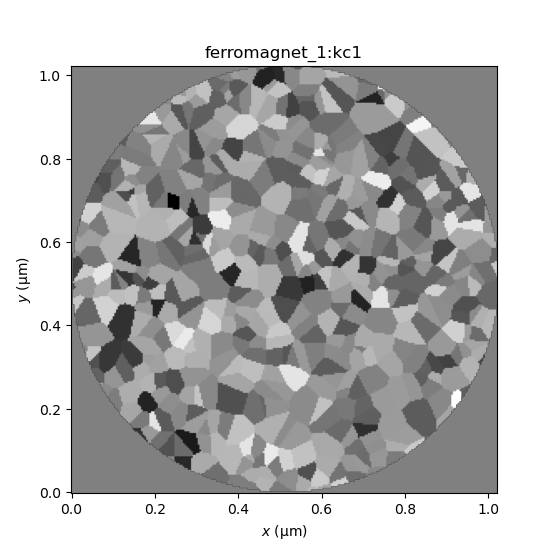
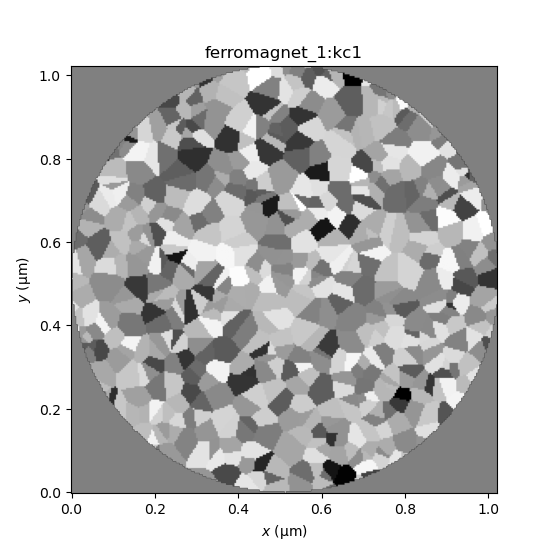
Fix show_regions after 3D upgrade

diff --git a/mumaxplus/util/show.py b/mumaxplus/util/show.py
@@ -1445,7 +1445,8 @@ def show_regions(magnet,
     boundaries = _np.zeros((1,) + regions.shape, dtype=int)
 
     boundaries[0, 1:, :, :] |= regions[1:, :, :] != regions[:-1, :, :]   # up
-    boundaries[0, :, 1:, :] |= regions[:, 1:, :] != regions[:, :-1, :]   # left
+    boundaries[0, :, 1:, :] |= regions[:, 1:, :] != regions[:, :-1, :]   # forward
+    boundaries[0, :, :, 1:] |= regions[:, :, 1:] != regions[:, :, :-1]   # right
 
     # Reuse _Plotter logic, but no need for quiver map or cbar
     if title is None:
